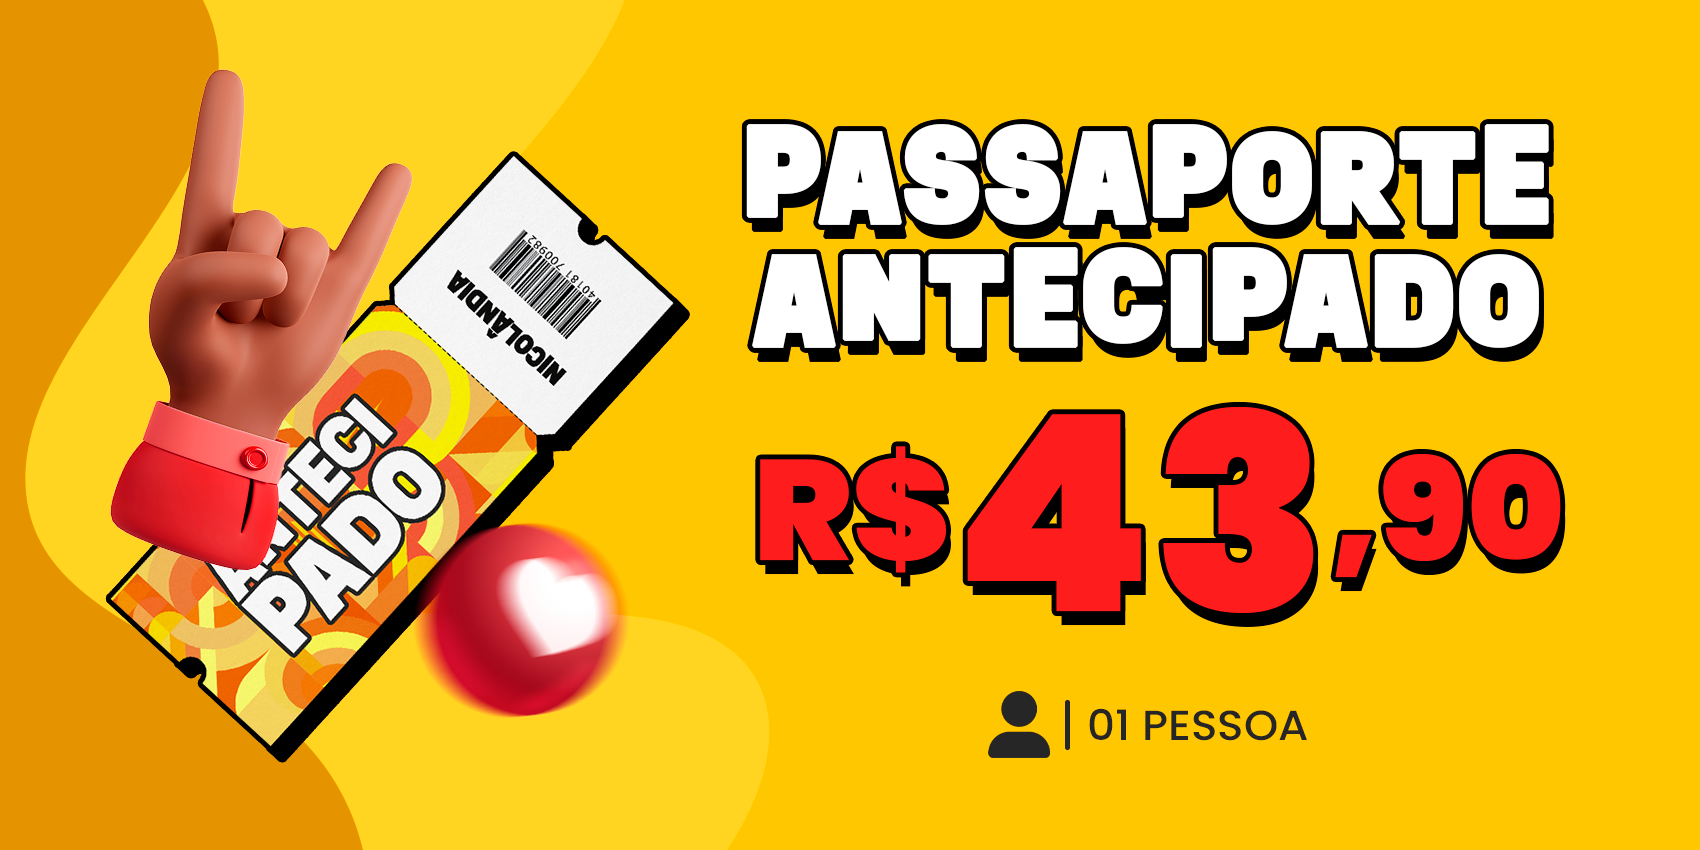
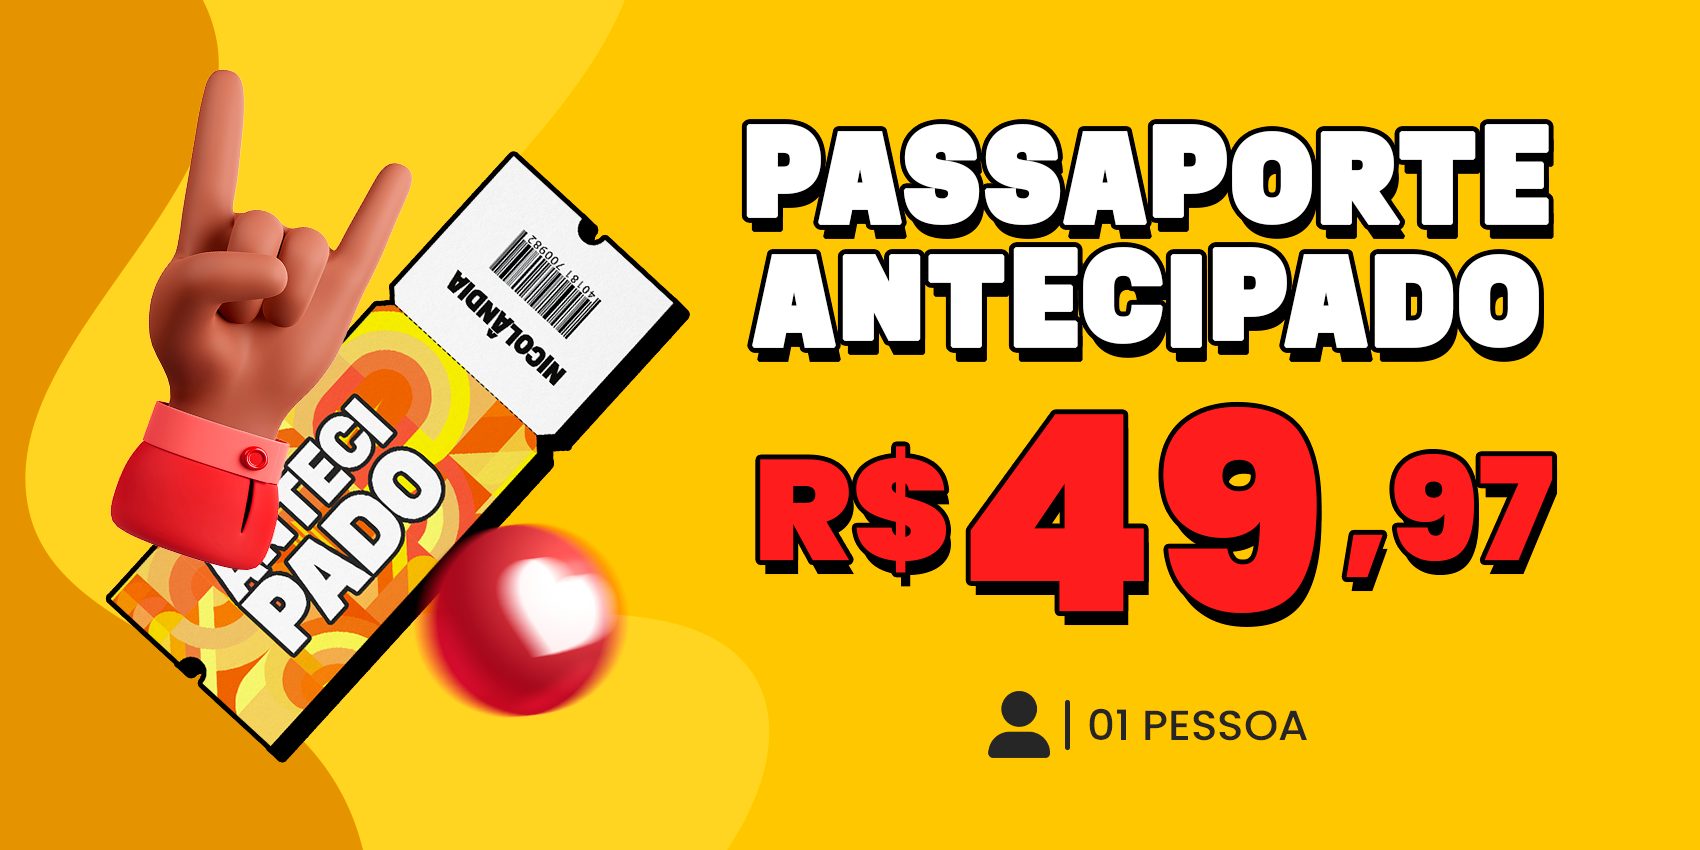
show passaport antecipado

Changed region(s): [[0.6547, 0.4894, 0.9353, 0.7341], [0.5612, 0.5506, 0.6235, 0.6729], [0.5924, 0.4894, 0.6235, 0.5506]]

diff --git a/src/pages/passaportes.tsx b/src/pages/passaportes.tsx
@@ -54,15 +54,15 @@ export default function PassaportsPage() {
                   reference={6997}
                   isPassport
                 /> */}
-                {/* <Ticket
+                <Ticket
                   id={7}
                   name="Passaporte Antecipado"
-                  price={3997}
+                  price={4997}
                   banner={PassaporteAntecipado}
                   quantity={1}
                   reference={6997}
                   isPassport
-                /> */}
+                />
                 <Ticket
                   id={14}
                   name="Combo Antecipado"

diff --git a/src/components/organisms/Tickets.tsx b/src/components/organisms/Tickets.tsx
@@ -46,17 +46,17 @@ export default function Tickets() {
               isPassport
             />
           </SwiperSlide> */}
-          {/* <SwiperSlide>
+          <SwiperSlide>
             <Ticket
               id={7}
               name="Passaporte Antecipado"
-              price={4390}
+              price={4990}
               banner={PassaporteAntecipado}
               quantity={1}
               reference={6997}
               isPassport
             />
-          </SwiperSlide> */}
+          </SwiperSlide>
 
           <SwiperSlide>
             <Ticket
